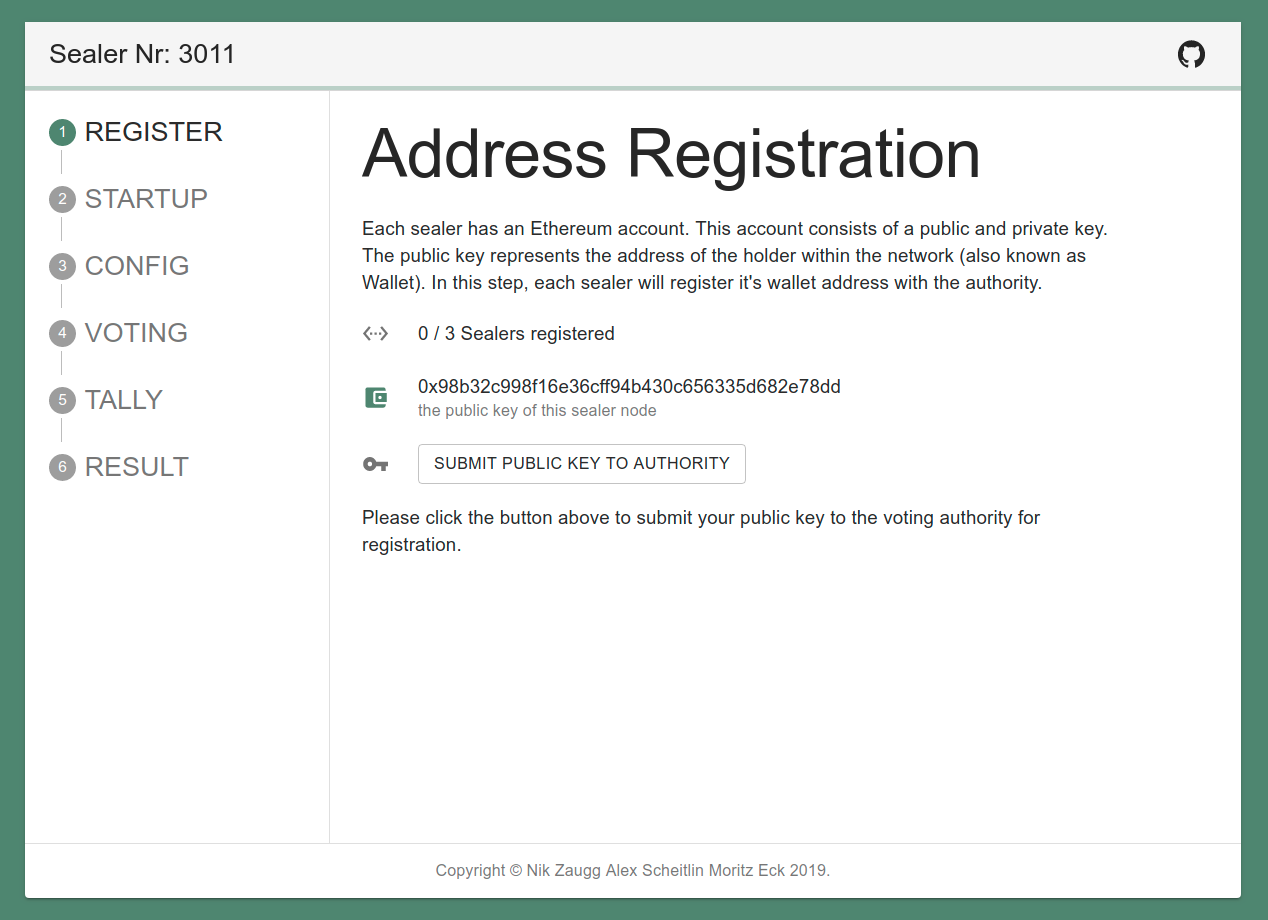
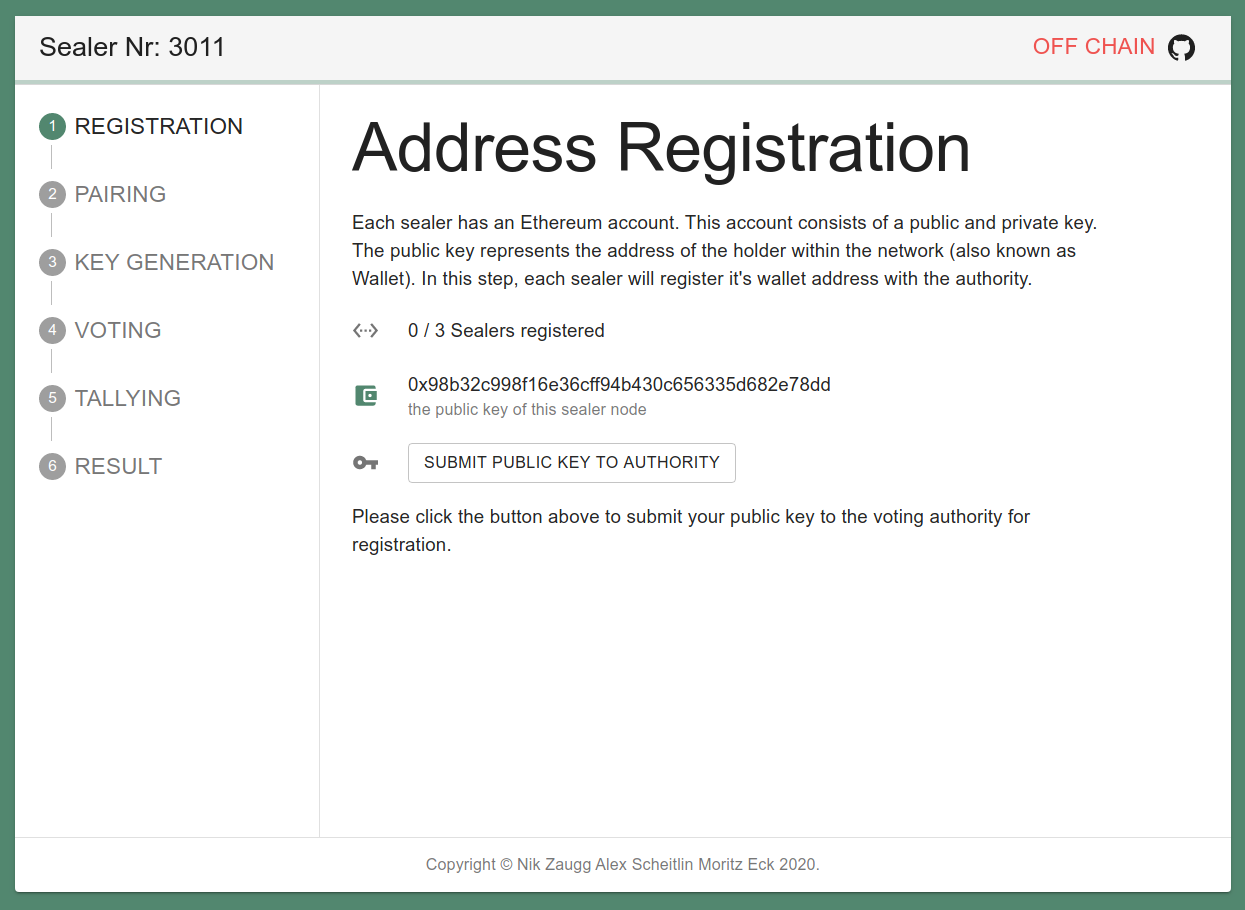
README - add updated images

diff --git a/README.md b/README.md
@@ -1,4 +1,4 @@
-# Master Project: eVoting
+# Provotum (2.0)
 
 |          Voter          |          Authority          |          Sealer          |
 | :---------------------: | :-------------------------: | :----------------------: |
